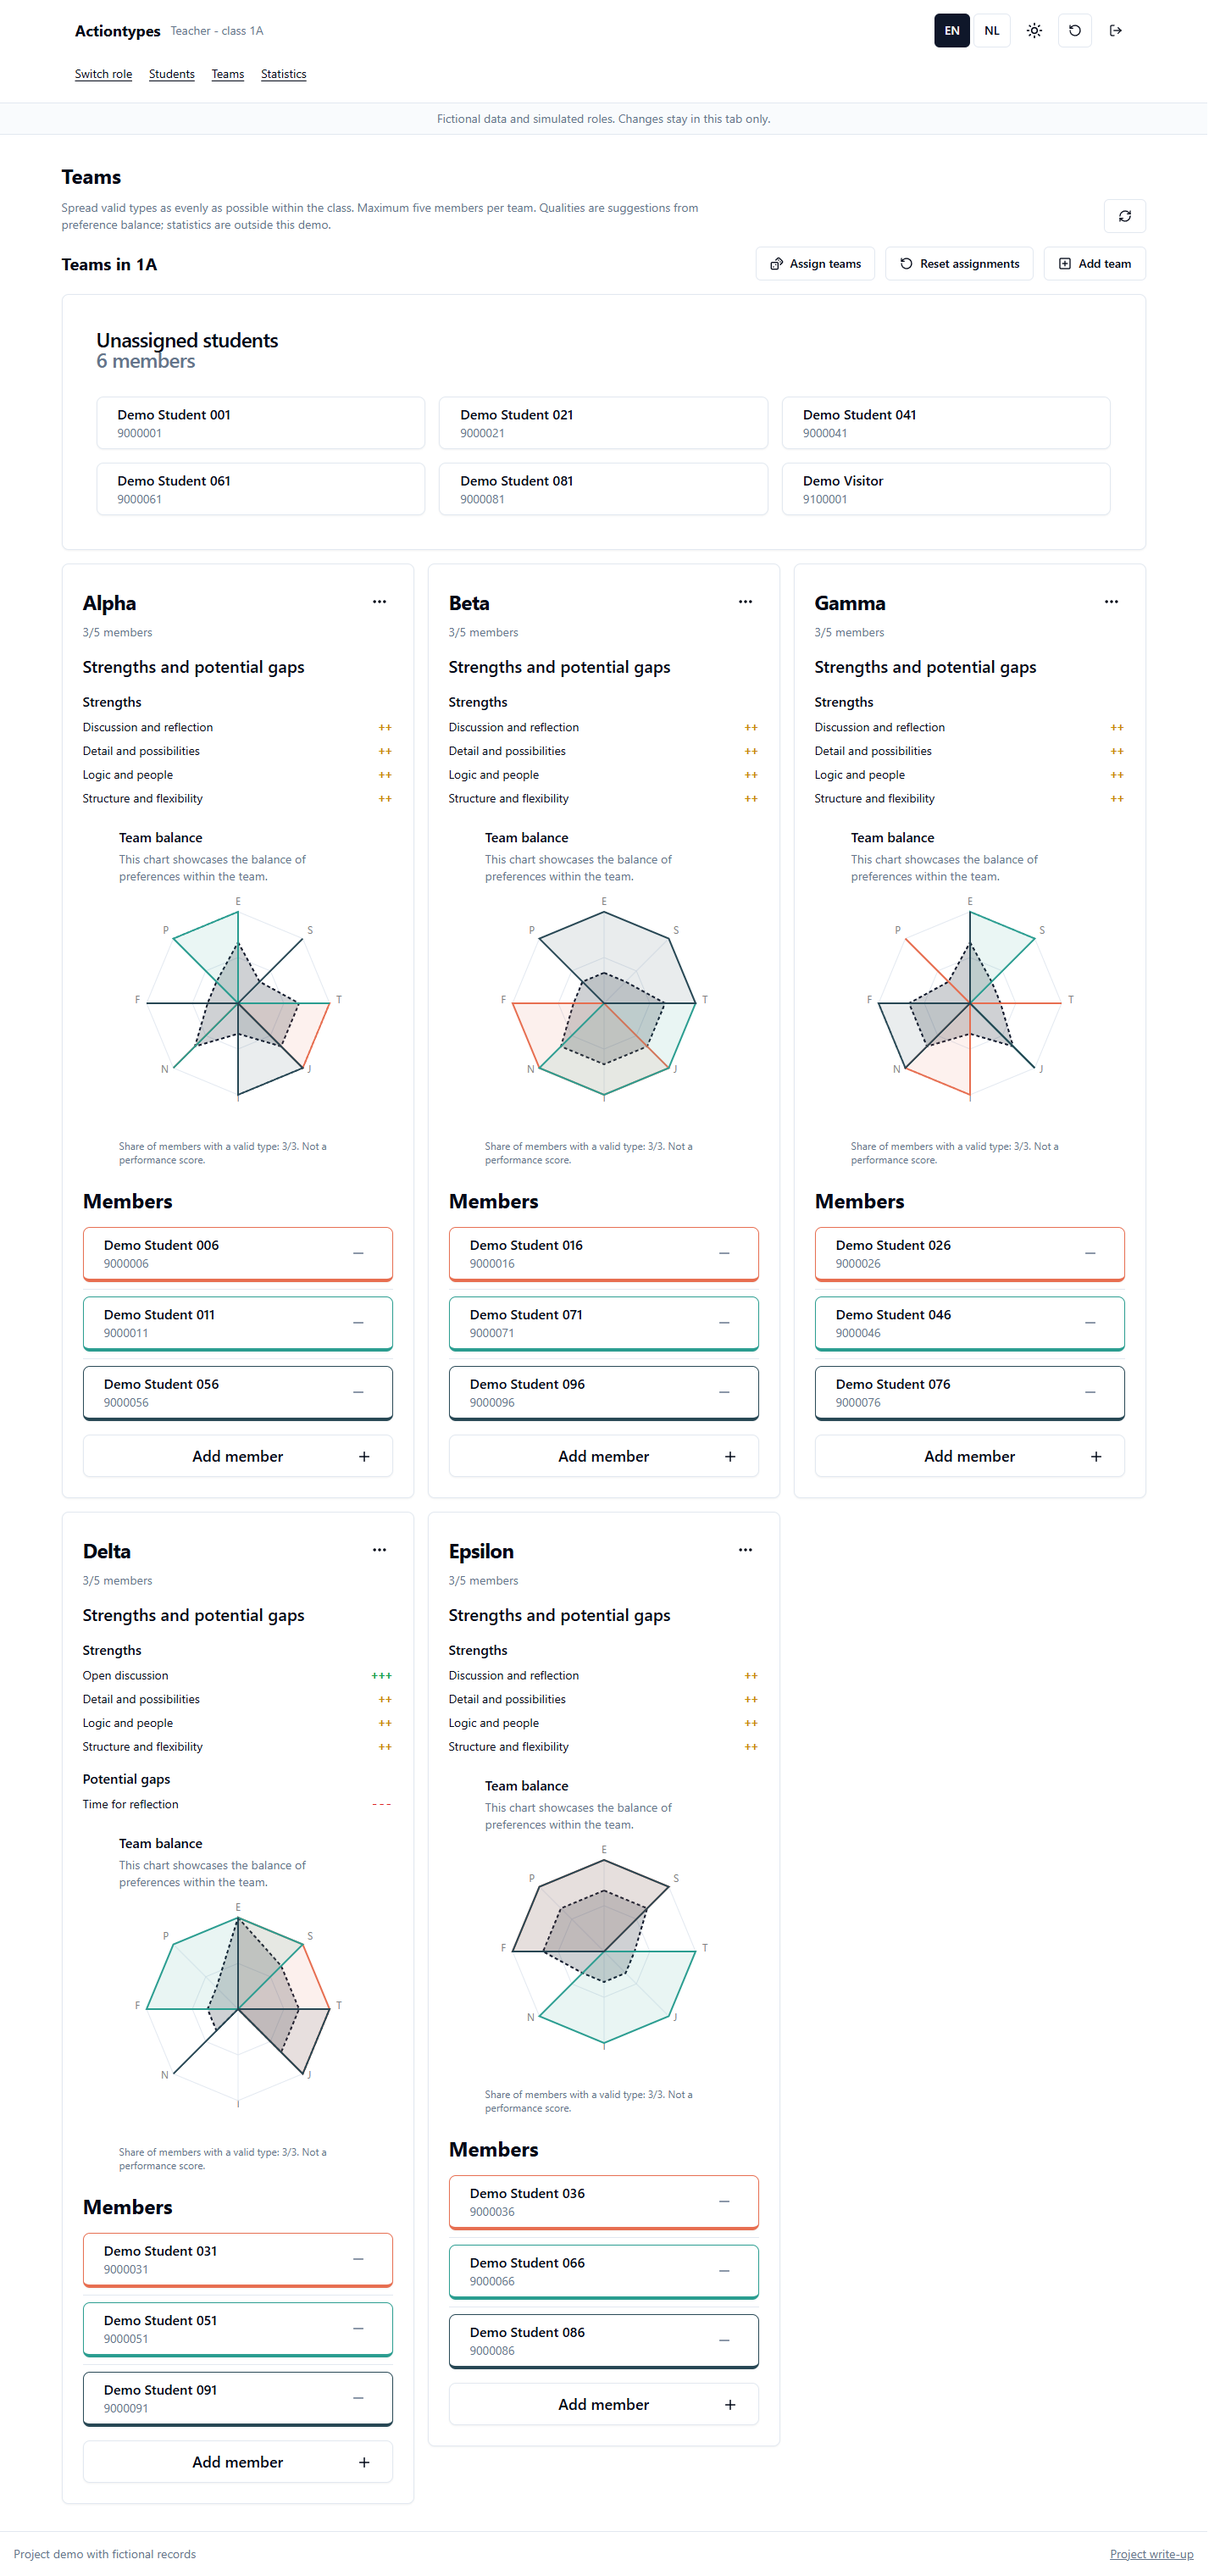
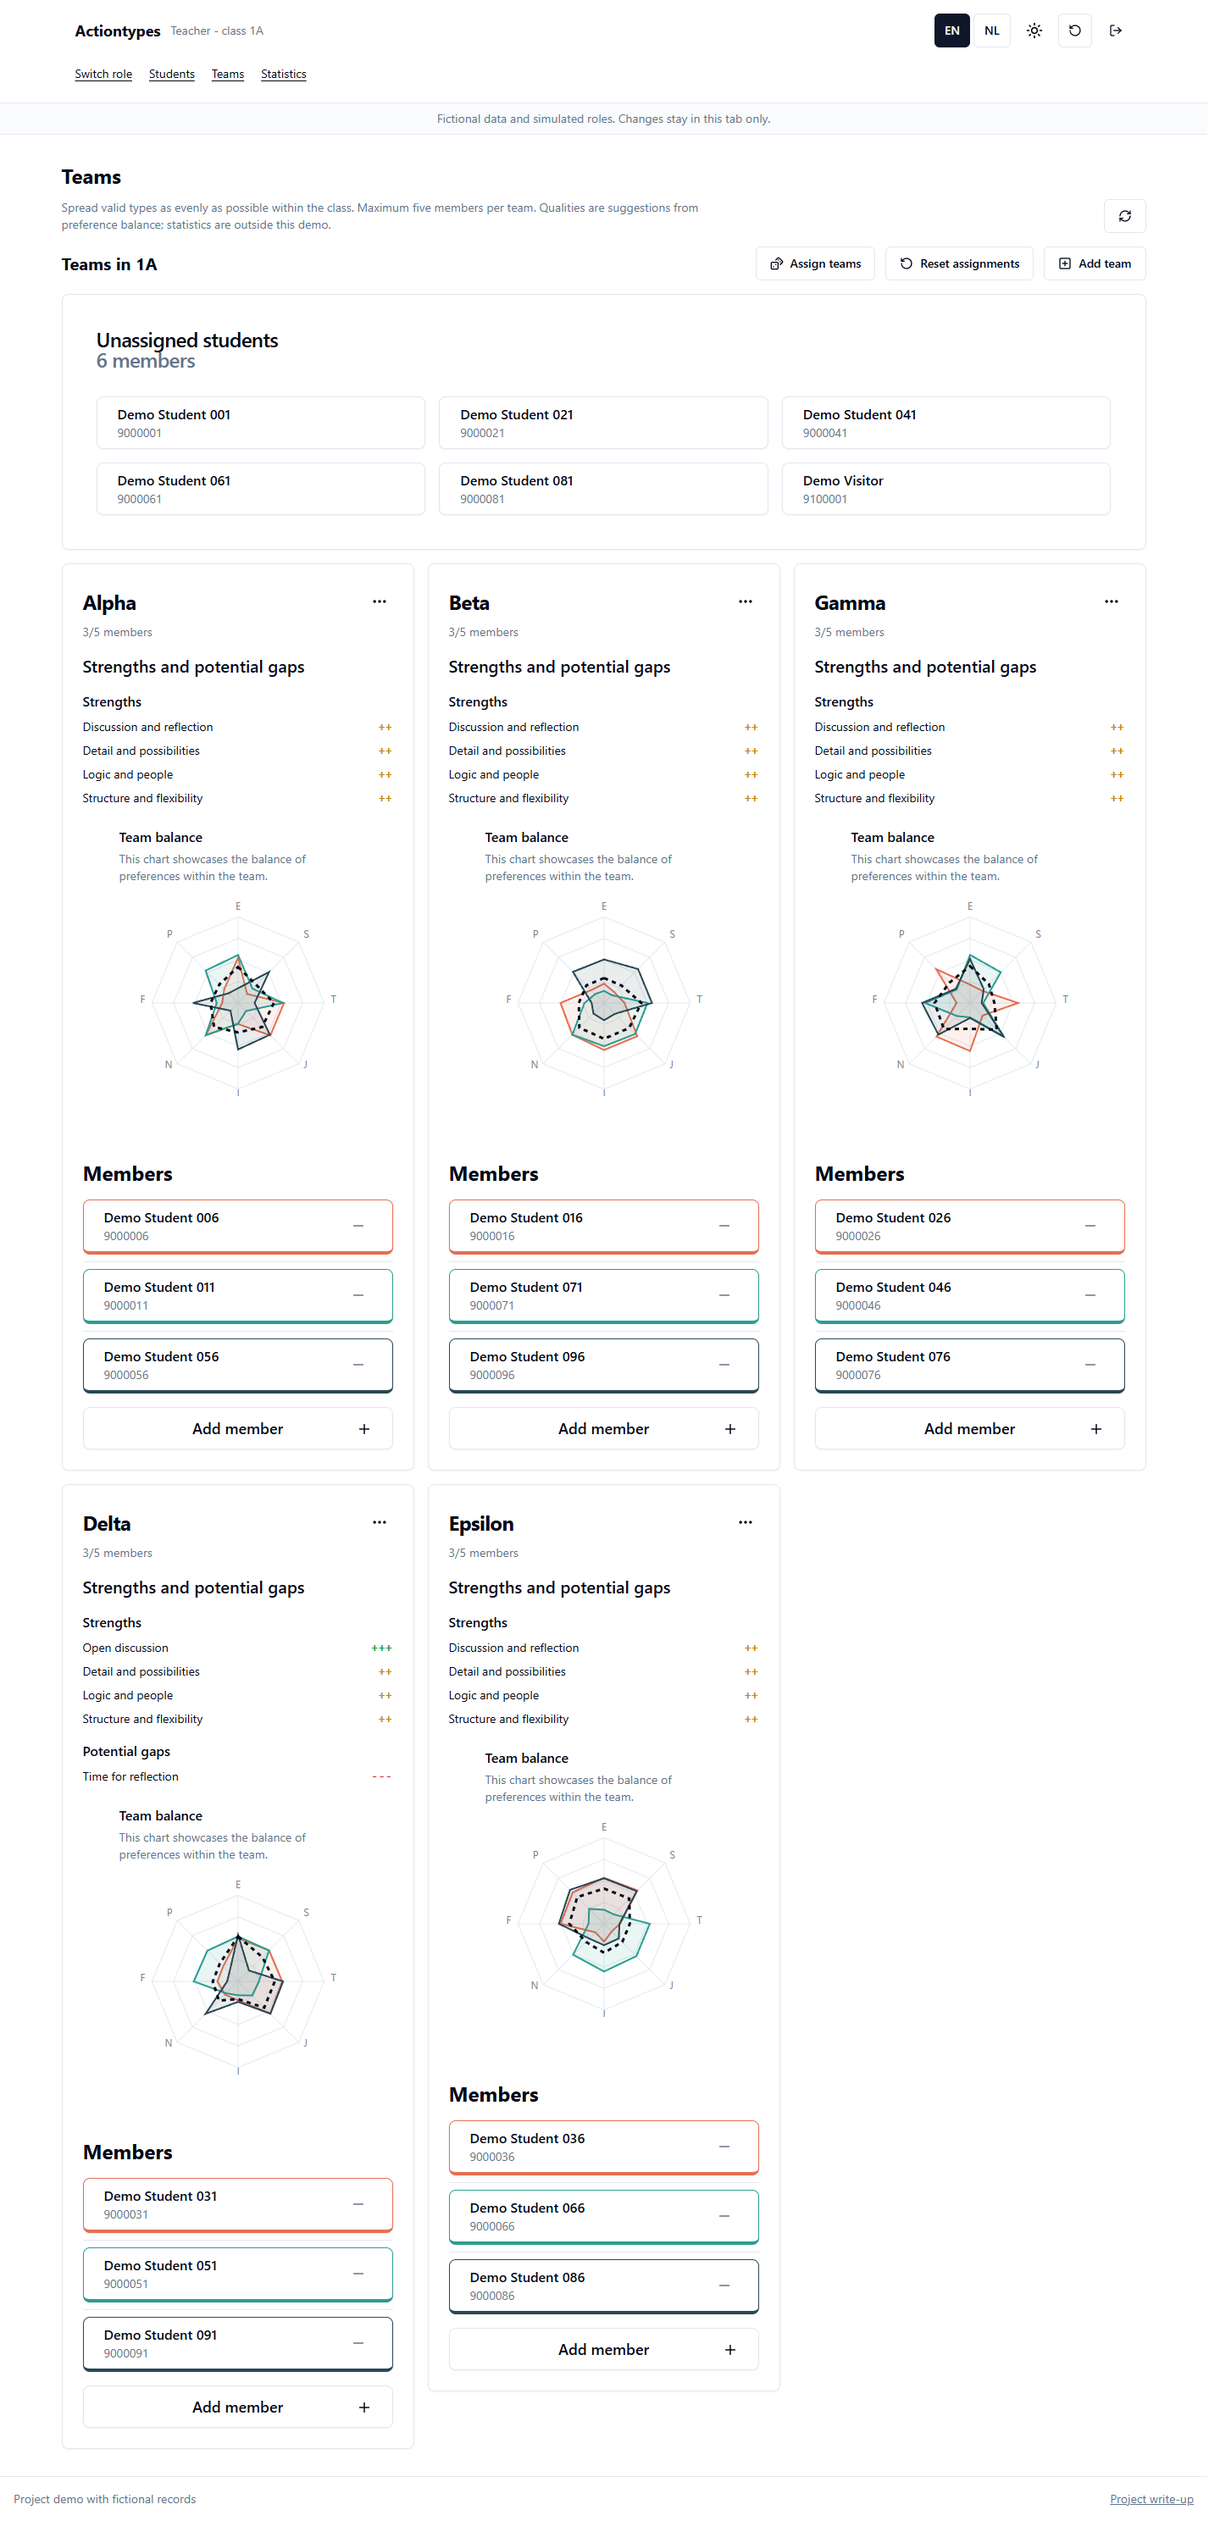
Reflect original full radar webs in Actiontypes case study

diff --git a/projects/actiontypes/README.md b/projects/actiontypes/README.md
@@ -41,7 +41,7 @@ Automatic assignment runs within a class. It spreads the existing four heuristic
 
 ## What the charts and qualities mean
 
-The radar shows actual preference shares among members with valid types. Its purpose is to showcase team balance. Each student's web is visible in the same color as their member card. Hovering a student brings their web to the front, strengthens its fill and outline, and fades the others; leaving restores the default view. Hovering a web highlights its member, and keyboard focus on a card works too. The dashed aggregate shape stays unchanged; there are no random preference-intensity scores.
+The radar keeps the original illustrative 1–5 student profiles and dashed team average, using the original Python/inhaal-wp3 source as reference. Each student's full web is visible in the same color as their member card. Hovering a student brings their web to the front, strengthens its fill and outline, and fades the others; leaving restores the default view. Hovering a web highlights its member, and keyboard focus on a card works too. The webs visualize team balance; their values are illustrative rather than measured intensities. The qualities below continue to use actual type counts.
 
 The qualities panel derives strengths and potential gaps from that composition, with compact color-coded `+`/`++`/`+++` and `-`/`--`/`---` grades for quick scanning. Supporting counts are available on hover. Missing or invalid types are excluded. The rules are documented project heuristics, not validated psychometric thresholds or evidence of a person's skills. This follows the distinction between preferences and abilities in [the Myers & Briggs Foundation's guidance](https://www.myersbriggs.org/type-in-my-life/personality-type-and-organizations/).
 
